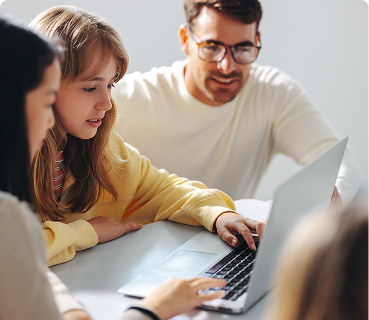
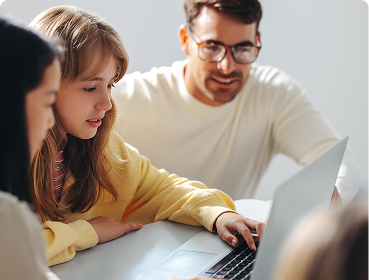
fix

diff --git a/resources/views/static/educational-resources.blade.php b/resources/views/static/educational-resources.blade.php
@@ -118,7 +118,7 @@
                 </div>
                 <div class="grid grid-cols-1 tablet:grid-cols-3 gap-6 xl:gap-10 mb-6 xl:mb-8">
                     <div class="rounded-lg bg-white overflow-hidden cursor-pointer group" onclick="window.location.href='{{route('training.index')}}'">
-                        <img class="object-cover aspect-[3/2]" src="/images/training/training_bg.png" />
+                        <img class="object-cover aspect-[3/2] w-100" src="/images/training/training_bg.png" />
                         <div class="p-6 flex justify-between items-center">
                             <p class="text-dark-blue text-lg p-0 font-semibold">Training</p>
                             <span class="bg-yellow group-hover:bg-primary rounded-full min-w-12 min-h-12 duration-300 flex justify-center items-center">
